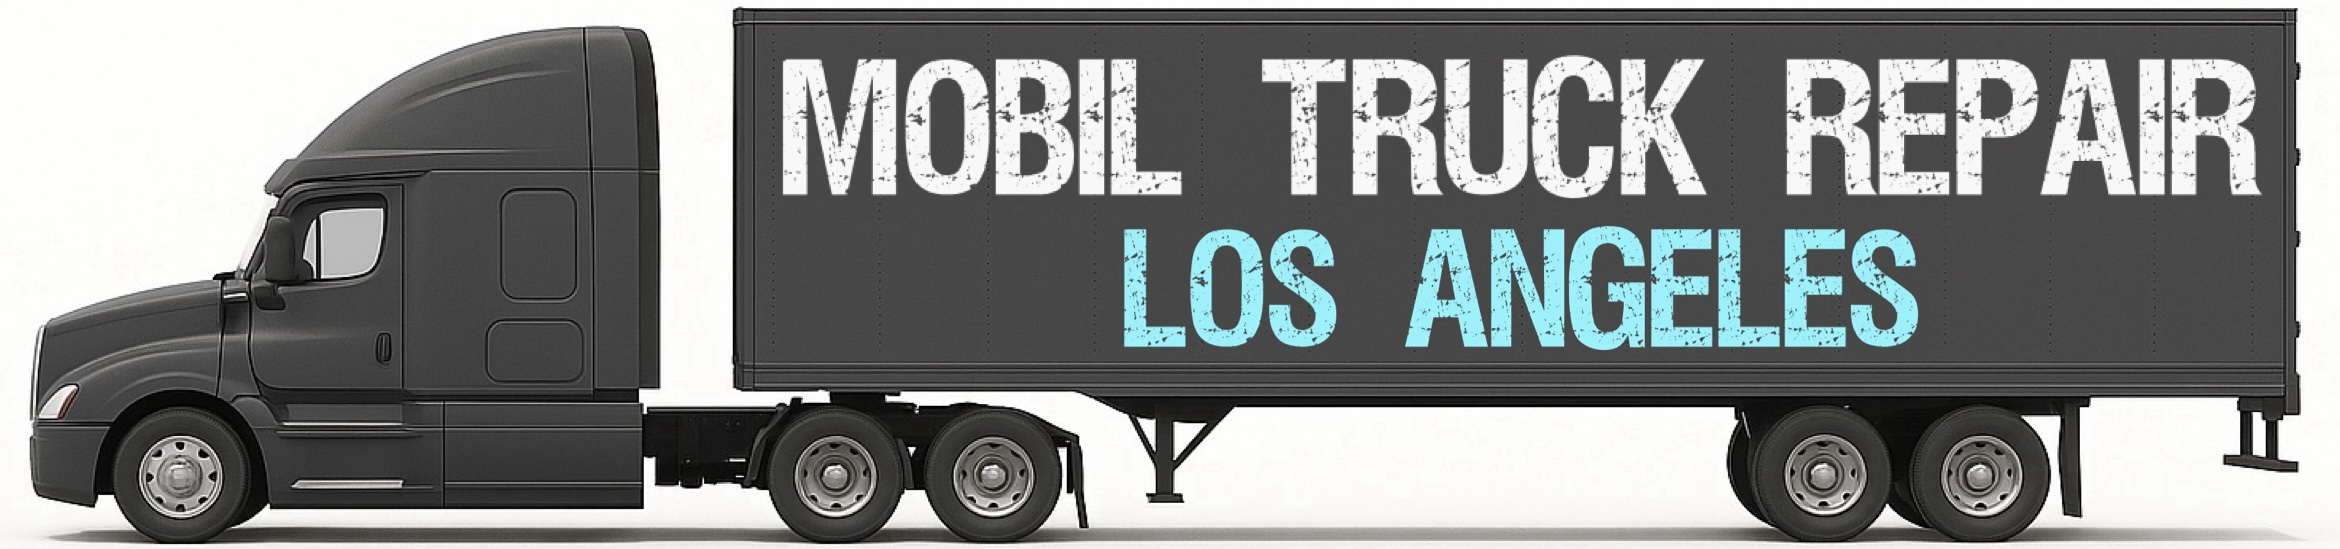
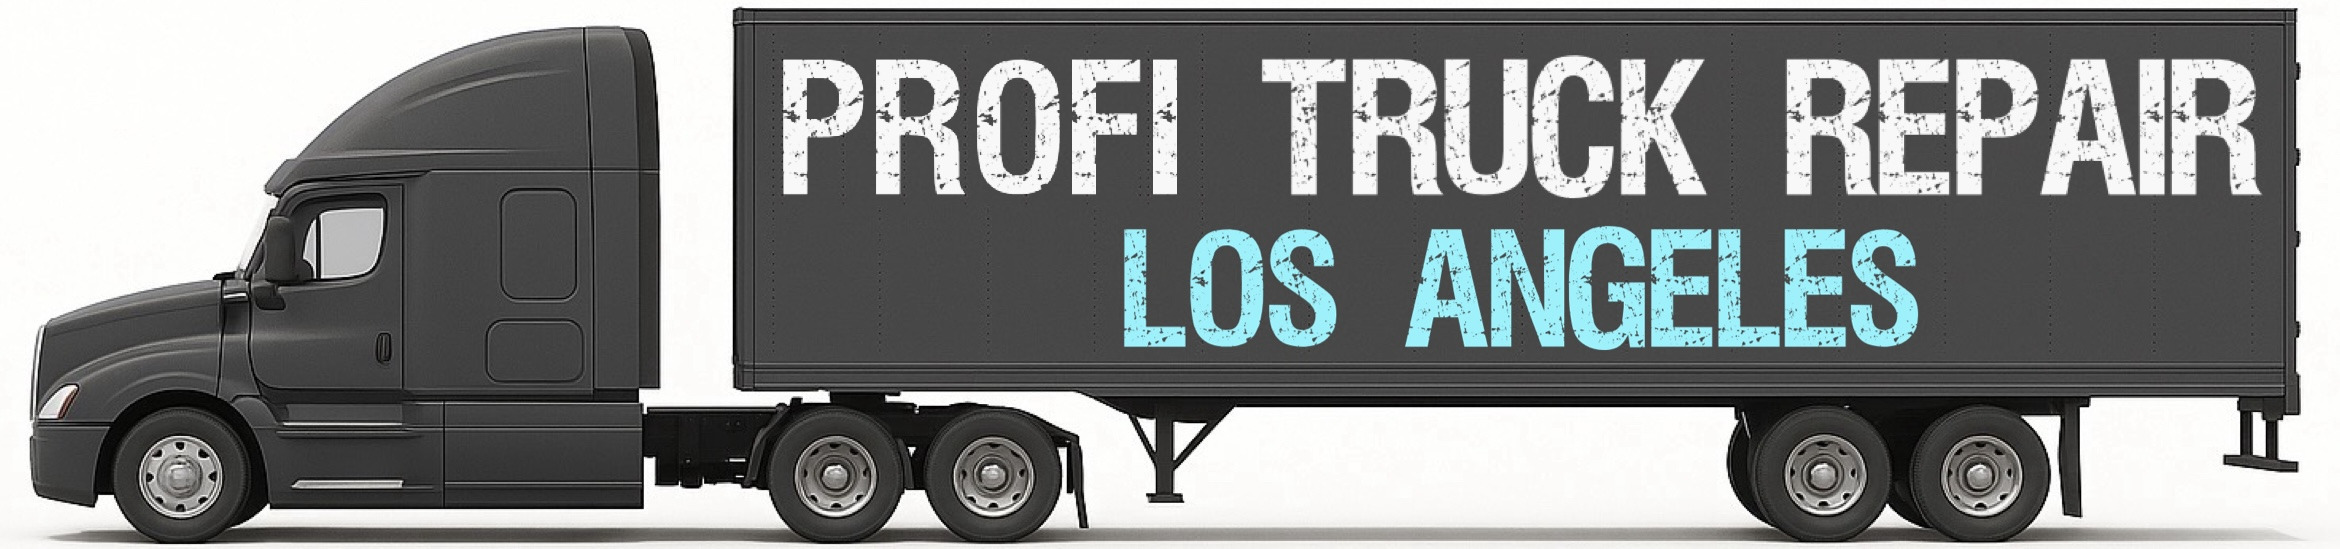
Надпись на трейлере: MOBIL TRUCK REPAIR → PROFI TRUCK REPAIR

Changed region(s): [[0.312, 0.0929, 0.5303, 0.3716]]

diff --git a/resources/views/home.blade.php b/resources/views/home.blade.php
@@ -15,7 +15,7 @@
 
       <!-- Hero -->
       <div class="top-image">
-        <img src="/images/image1.jpg?v=2" alt="Mobile Truck Repair in Los Angeles" />
+        <img src="/images/image1.jpg?v=3" alt="Mobile Truck Repair in Los Angeles" />
       </div>
 
       <!-- Map + text -->
